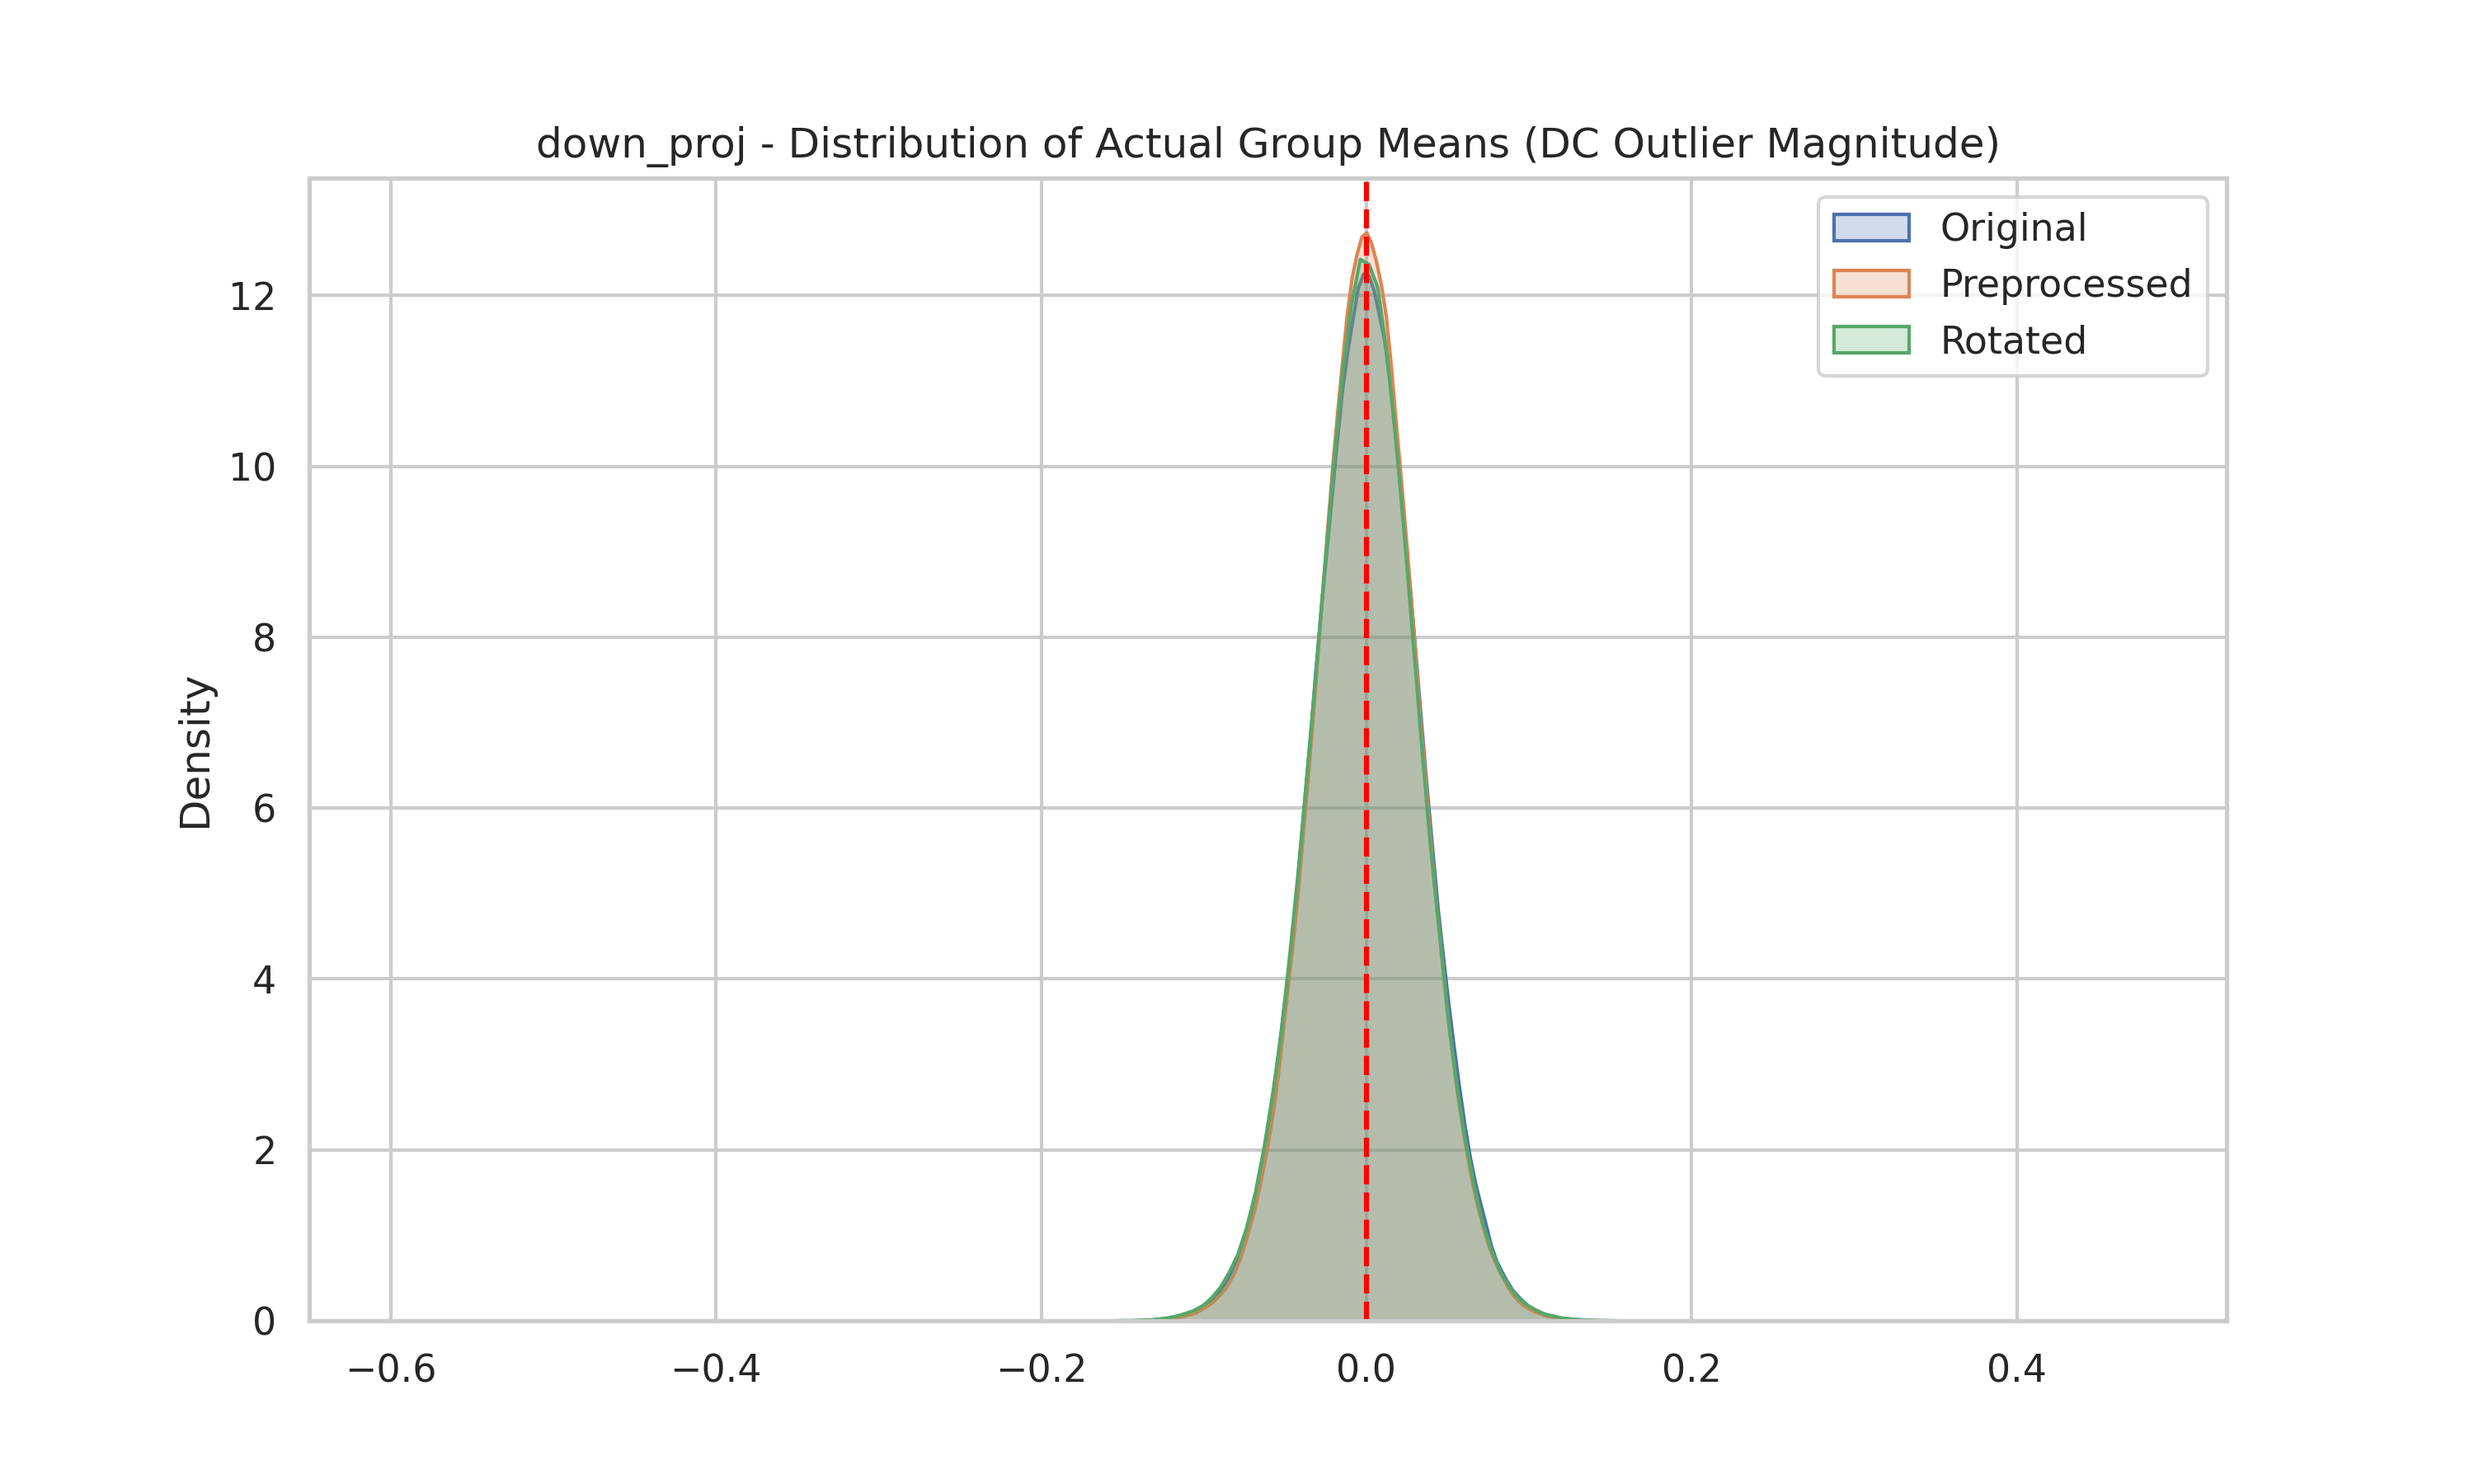
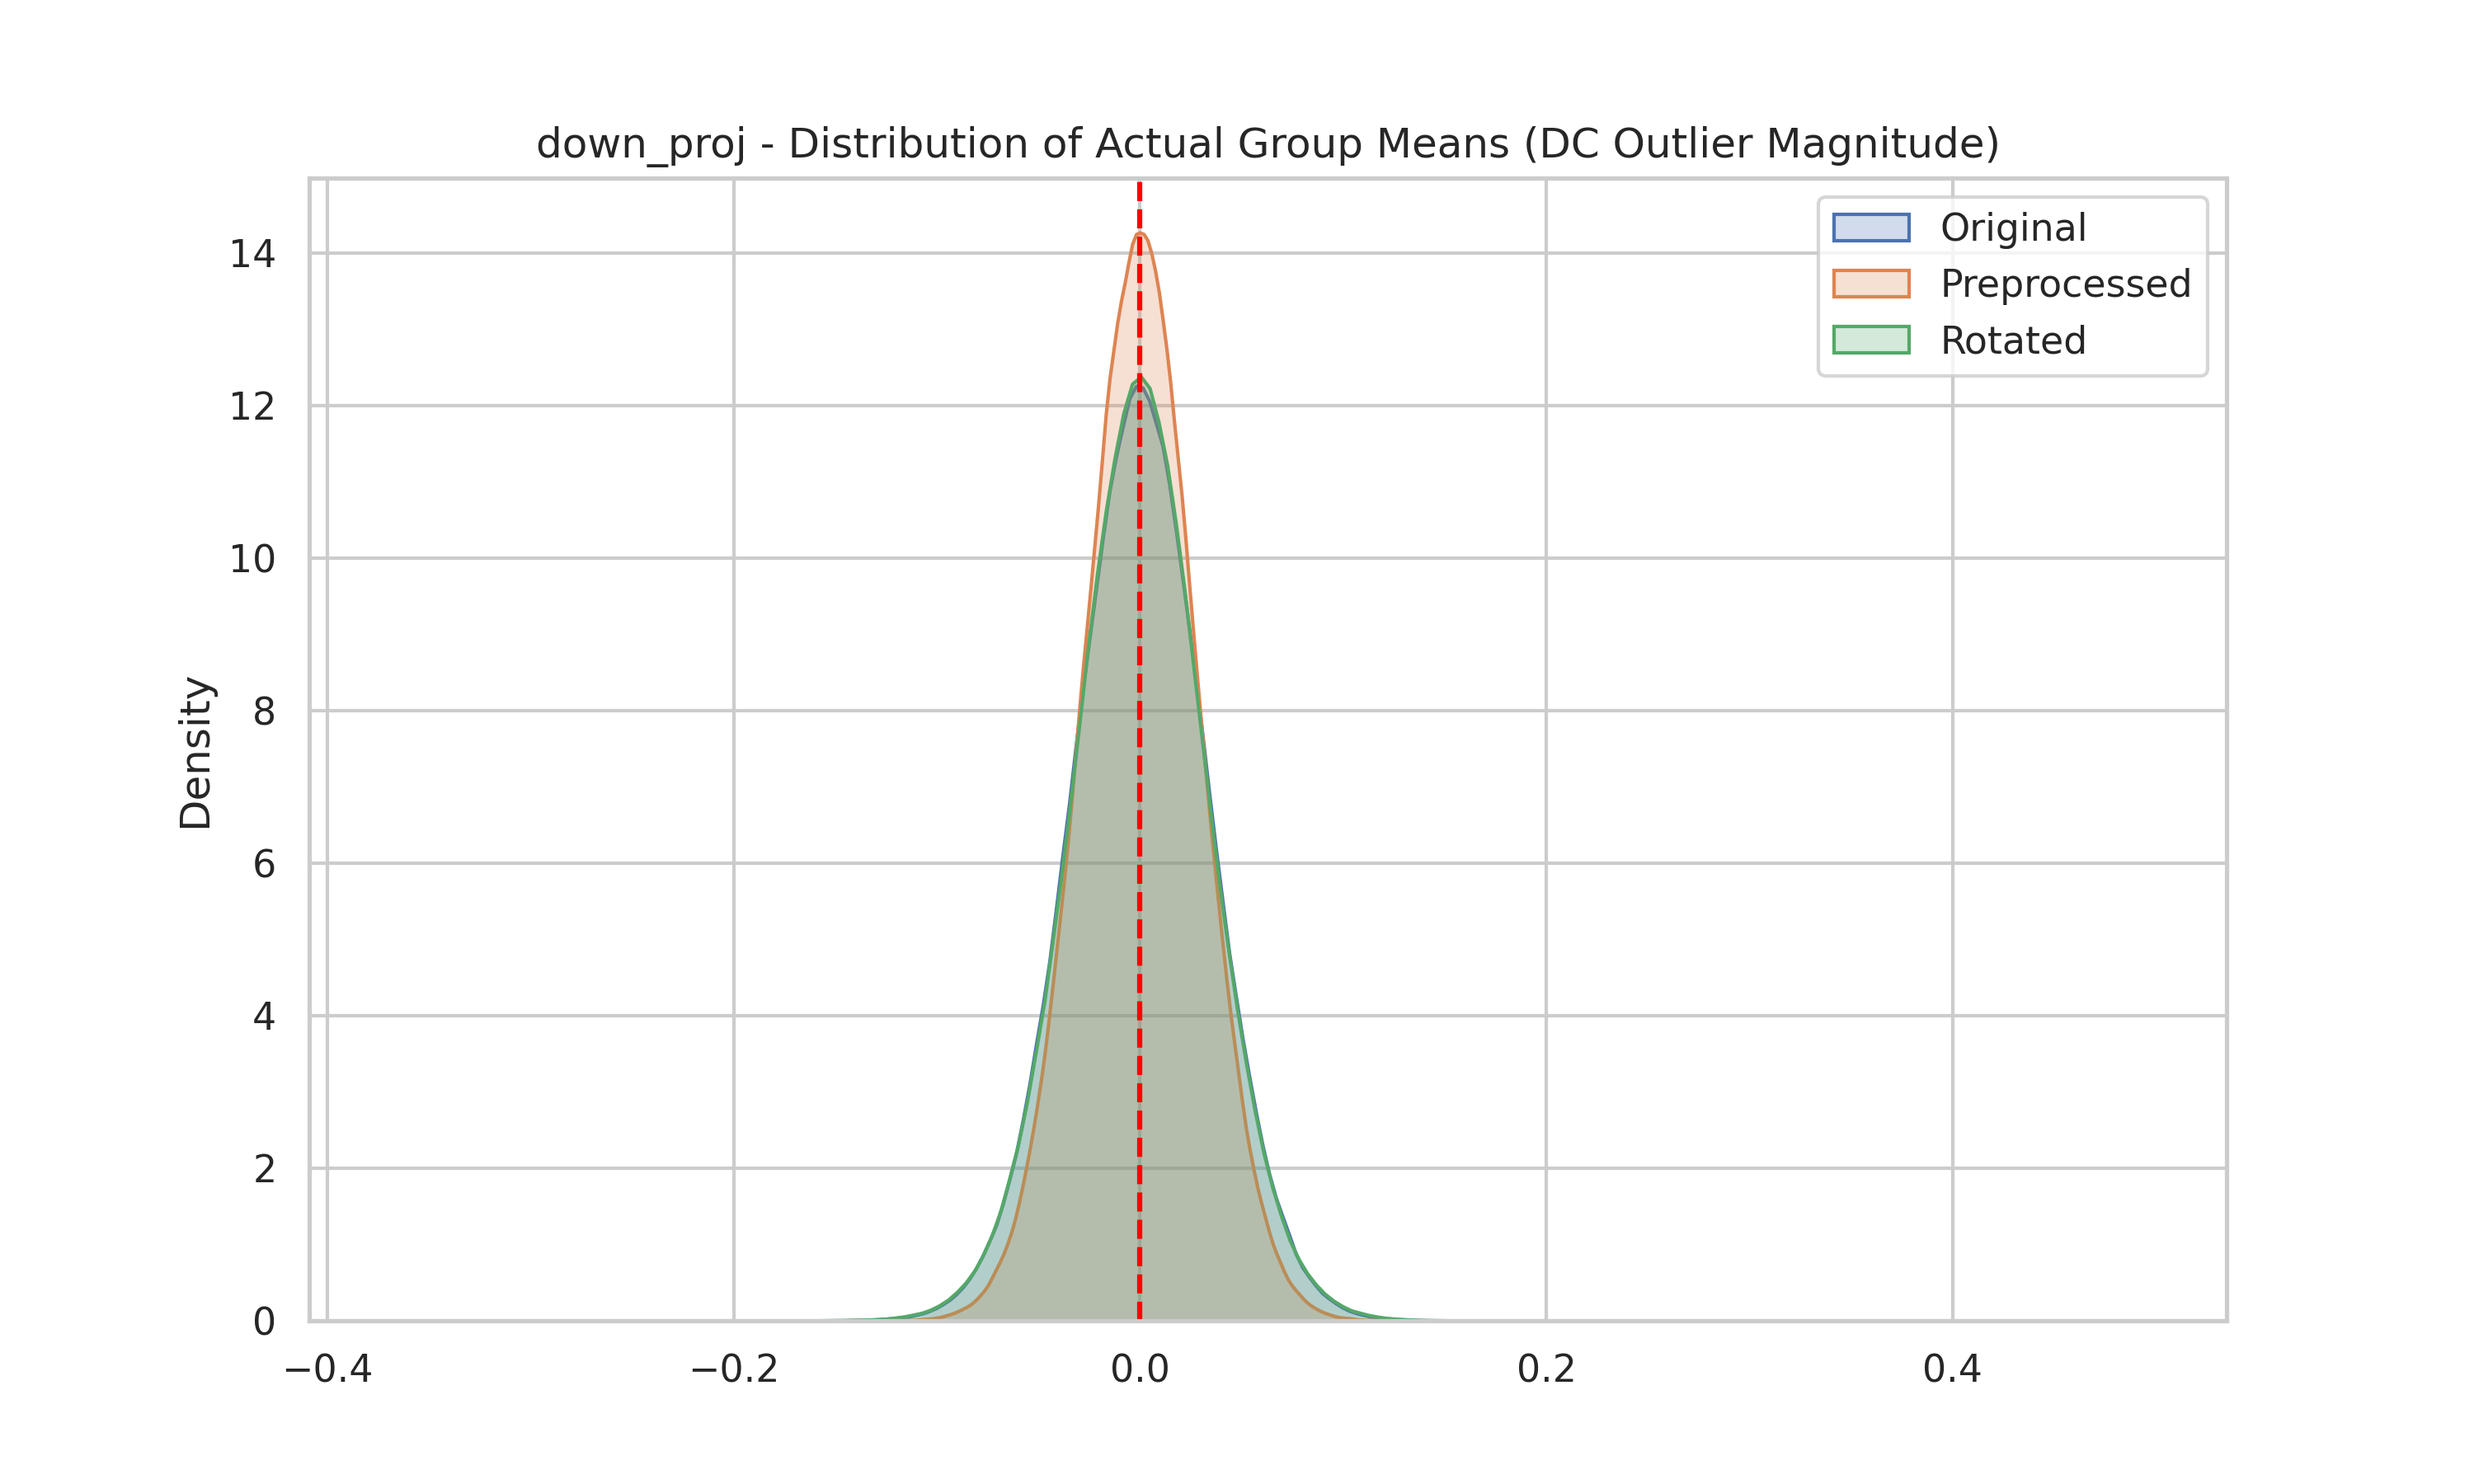
不如原本

diff --git a/src/quantization/gptaq.py b/src/quantization/gptaq.py
@@ -447,12 +447,31 @@ def gptaq_quantization(
 
         if collector:
             # --- Phase 2: Preprocessed Stats ---
-            collector.collect("q_proj", "Preprocessed", block.self_attn.q_proj.weight.data)
-            collector.collect("v_proj", "Preprocessed", block.self_attn.v_proj.weight.data)
-            collector.collect("o_proj", "Preprocessed", block.self_attn.o_proj.weight.data)
-            collector.collect("gate_proj", "Preprocessed", block.mlp.gate_proj.weight.data)
-            collector.collect("up_proj", "Preprocessed", block.mlp.up_proj.weight.data)
-            collector.collect("down_proj", "Preprocessed", block.mlp.down_proj.weight.data)
+            # 提取原权重
+            q_w = block.self_attn.q_proj.weight.data.clone()
+            v_w = block.self_attn.v_proj.weight.data.clone()
+            o_w = block.self_attn.o_proj.weight.data.clone()
+            gate_w = block.mlp.gate_proj.weight.data.clone()
+            up_w = block.mlp.up_proj.weight.data.clone()
+            down_w = block.mlp.down_proj.weight.data.clone()
+            
+            # 因为通道重排对于 qkv 和 gate_up 是存放在 CompositeTransform 里的，
+            # weight.data 在内存里并没有被直接修改！这就是为什么您看到 0.0% 的原因！
+            # 现在我们在发给统计画图工具前，手动把排列应用上去，还原它的真实面貌！
+            if getattr(args, "channel_sorting", False):
+                if 'qkv_perm' in locals():
+                    q_w = q_w[:, qkv_perm]
+                    v_w = v_w[:, qkv_perm]
+                if 'gate_up_perm' in locals():
+                    gate_w = gate_w[:, gate_up_perm]
+                    up_w = up_w[:, gate_up_perm]
+                    
+            collector.collect("q_proj", "Preprocessed", q_w)
+            collector.collect("v_proj", "Preprocessed", v_w)
+            collector.collect("o_proj", "Preprocessed", o_w)
+            collector.collect("gate_proj", "Preprocessed", gate_w)
+            collector.collect("up_proj", "Preprocessed", up_w)
+            collector.collect("down_proj", "Preprocessed", down_w)
 
         quantized_attn = get_attention_layer(model.config)(
             model.config, layer_idx=block_idx, act_quantizer_kwargs=act_quantizer_kwargs,
